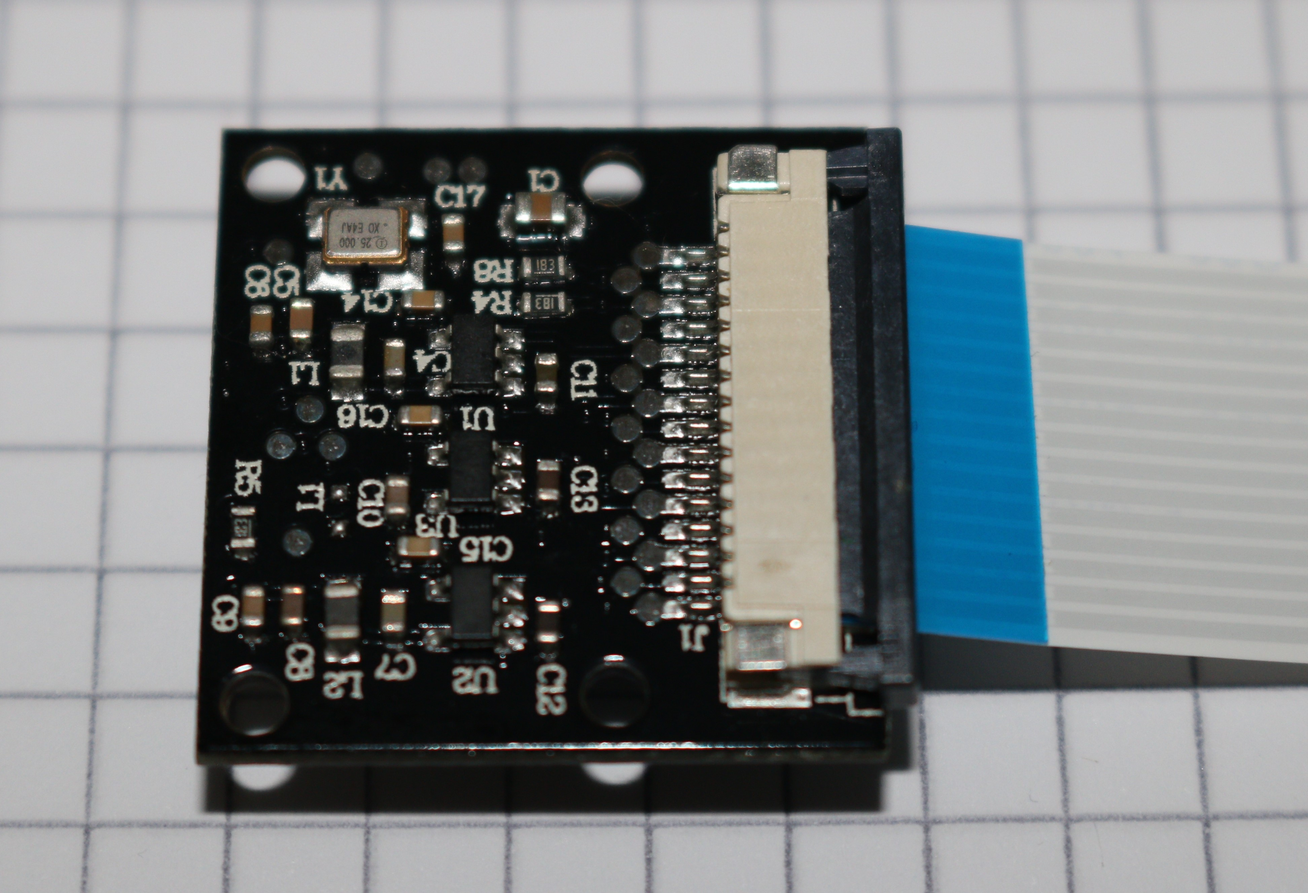
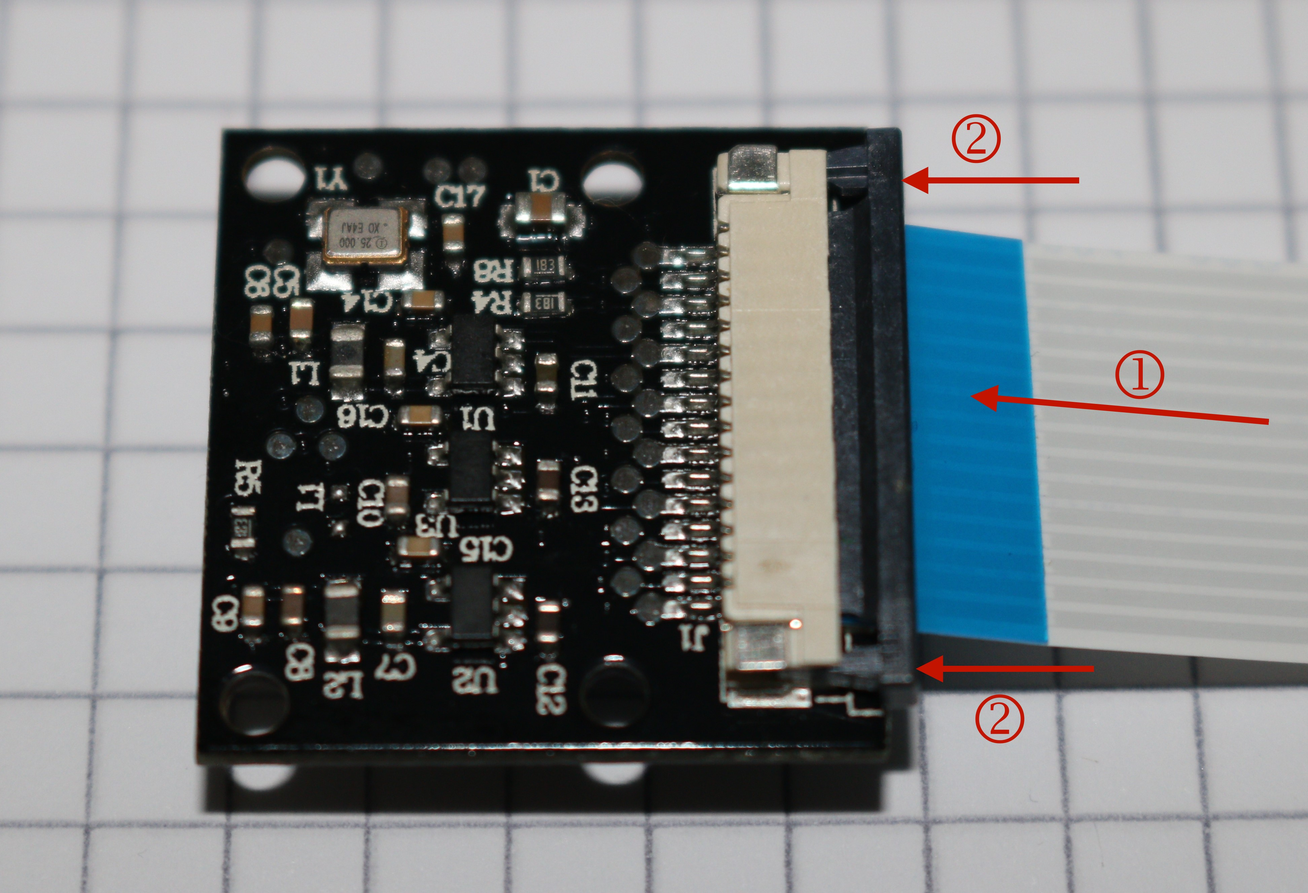
More Updates for the new Software
Added LED Light assembly
Removed typos, updated Software and Hardware chapter

diff --git a/docs/software.md b/docs/software.md
@@ -148,6 +148,12 @@ sudo apt-get update && apt-get dist-upgrade
 
 # Config File Values
 
+
+
+***CHECK THE TEXT OF THE VALUES - MAYBE SOMETHING IS MISSING
+
+
+
 A configuration file can be found in /etc/fabscanpi/default.config.json. The content of this file 
 is in JSON format and can be edited with an editor of your choice (e.g. nano). Be careful and don't
 miss brackets. JSON is really sensitive in it's format.
@@ -187,25 +193,37 @@ This section describes the laser stepper motor values. The rotation_steps value 
 
 In this section you can change the parameters of the configuration sheet. If your printout of the calibration sheet has not the exact scale you can adjust the parameters here instead of scaling the print. 
 
+
+
+"scanner_type": "laserscanner",
+"calibration": {
+
+```
+"weight_matrix": [],
+"dist_camera_matrix": [],
+"pattern": {
+    "square_size": 10,
+    "rows": 6,
+    "columns": 9,
+    "origin_distance": 29
+}
+```
+
+
 - Square Size is the side length of one black square in millimeters.
-- Rows and Columns are the connection points of the black squares.
 
-    ```
-    "scanner_type": "laserscanner",
-    "calibration": {
-        "weight_matrix": [],
-        "dist_camera_matrix": [],
-        "pattern": {
-            "square_size": 10,
-            "rows": 6,
-            "columns": 9,
-            "origin_distance": 33.5
-        }
-     ```
+  ![PuTTY_Menu](images/calibration_sheet_info_2.png)
 
-![PuTTY_Menu](images/Origin_Distance.jpg)
 
-- Origin Distance is the distance between turntable surface and the upper edge of the black squares in the row close to the turntable.
+
+- Rows and Columns are the connection points of the black squares. The correct number is 9 for columns and 6 for rows :
+
+![PuTTY_Menu](images/calibration_sheet_info_1.png)
+
+
+
+- Origin Distance is the distance between turntable surface and the upper edge of the black squares in the row close to the turntable.![PuTTY_Menu](images/Origin_Distance.jpg)
+
 
 
 
@@ -292,7 +310,7 @@ In this section you can check the calibration parameters. Please make sure you h
 **Table settings**
 
 
-In this section you can change the turntable settings. The radius of the turntable is in millimetres (mm). In the default case the motor is set to 1/16 step mode. A motor with 200 steps per turn can then perform 3200 steps.    
+In this section you can change the turntable settings. The radius of the turntable is in millimeters (mm). In the default case the motor is set to 1/16 step mode. A motor with 200 steps per turn can then perform 3200 steps. Radius is the radius of the turntable in millimeters (mm). 
     "process_numbers": 4,
     "turntable": {
         "steps": 3200,
@@ -354,7 +372,7 @@ In this section you can change the pre-set brightness level of the LED-Ring duri
 
 
 
-# How to Edit the Config File
+# How to Edit the Config File<a name="editConfigFile"></a>
 
 **Remote access to change the configuration settings**
 
@@ -559,6 +577,10 @@ sudo /etc/init.d/networking restart
 
 FabScan Pi is tested on: 
 
+*** PLEASE UPDATE THE VERSION NUMBERS OF THE TESTED OSX BROWSERS
+
+
+
 |                   Logo                   |      OS      |        Versions        |
 | :--------------------------------------: | :----------: | :--------------------: |
 | ![browser_logo](images/chrome-logo.png)  | OSX, Windows | 47.0.2526.106 (64-bit) |
@@ -586,7 +608,13 @@ FabScan Pi is tested on:
 
 Before you can start with your first scans you must perform an calibration. That is necessary because every Scanner housing is a bit different.  By calibrating your scanner the software will get the exact parameters of your FabScanPi. Only after finishing the calibration successfully you will have good scan results .
 
-The calibration will be done by scanning an calibration sheet with a specific pattern which must be placed on the turntable:
+The calibration will be done by scanning an calibration sheet with a specific pattern which must be placed on the turntable. The pattern must face the camera:
+
+
+
+***PICTURE OF CALIBRATION SHEET IN START POSITION
+
+
 
 Option 1: You can decide between the standard calibration sheet which must be glued onto a paperboard sheet. The standard sheet can be put up without an additional holder. You maybe have to fix the calibration sheet on the turntable by using some adhesive tape.
 
@@ -594,19 +622,17 @@ Option 2: You have an 3D-printer available and can print out our calibration she
 
 
 
+***LINK TO THE CALIBRATION SHEET DOWNLOAD
+
+
+
 Note: Please check if your print of the calibration sheet has the correct scale. Each black square should have the side length of 10 mm (1 cm). If the size is not correct please correct the parameter "pattern square size" in the configuration file. 
 
-You can find all details in the chapter "How to Edit the Config File".
+You can find all details in the chapter "[How to Edit the Config File](#editConfigFile)".
 
 
 
-
-
-
-
-
-
-You can start the calibration procedure by clicking on the gun sight icon in the very upper left corner.
+Start the calibration procedure by clicking on the gun sight icon in the very upper left corner.
 
 ![main_menu](images/Manual_1.jpg)
 

diff --git a/docs/hardware.md b/docs/hardware.md
@@ -37,7 +37,7 @@ flashed automatically by the FabscanPi-Server application.
 ![drawing_400](images/fabscanpihat.png)
 
 <<<<<<< HEAD
-# How to Asselmble the FabScanPi HAT
+# How to assemble the FabScanPi HAT
 
 **Materials & Tools**
 
@@ -53,16 +53,16 @@ flashed automatically by the FabscanPi-Server application.
 
 ![drawing_400](images/RPi-FabScan-HAT07.jpg)
 
-Use the side cutter to cut two pieces of 3 pins from the male header, like you on the picture above.
+Use the side cutter to cut two pieces of 3 pins from the male header, like you can see on the picture above.
 
 #Connecting the Stepper Motor
 =======
-**How to Assemble the FabScanPi HAT**
+**How to assemble the FabScanPi HAT**
 
 
 * * *
-<i class="fa fa-info-circle spacer" aria-hidden="true"></i> _About Soldering_
- 
+    <i class="fa fa-info-circle spacer" aria-hidden="true"></i> _About soldering_
+
 _If you are soldering for the very fist time, we suggest to read the comic ["Soldering is Easy"](https://mightyohm.com/files/soldercomic/FullSolderComic_EN.pdf) by Mitch Altman (soldering wisdom), Andie Nordgren (comic adaption) and Jeff Keyzer (layout and editing)._
 * * *
 
@@ -151,8 +151,7 @@ Now the 2x20-pin socket connector must be installed from the rear side of the PC
 
 ![drawing_400](images\hat_assembly_7.jpg)
 
-_Attention: The power connector in this image is soldered in an alternative way. The recommended way 
-is shown in the image before._
+**ATTENTION:** The power connector in the image above image is soldered in an alternative way. The recommended way is shown in the second last image.
 
 
 
@@ -171,11 +170,11 @@ If you are using another power supply which is capable of delivering 12V and 5V 
 #Connecting the Stepper Motor(s)
 
 >>>>>>> master
-There are different kinds of stepper motos. Mostly with 4 or 6 leads. For
-connecting the stepper motor to the FabScanPi HAT you need to know the
-corresponding lead pairs of the motor coils. The best way to find out something
-about the motor is to have a look at the datasheet of the motor manufacturer.
-In the following desciptions the pairs are called (2B, 1B) and (1A, 2A).
+>>>>>>> There are different kinds of stepper motos. Mostly with 4 or 6 leads. For
+>>>>>>> connecting the stepper motor to the FabScanPi HAT you need to know the
+>>>>>>> corresponding lead pairs of the motor coils. The best way to find out something
+>>>>>>> about the motor is to have a look at the datasheet of the motor manufacturer.
+>>>>>>> In the following desciptions the pairs are called (2B, 1B) and (1A, 2A).
 
 ![drawing_300](images/4wires.jpg) 
 ![drawing_300](images/6wires.jpg)
@@ -283,11 +282,56 @@ NOTE: For the final stage of constuction a more powerful power supply is needed.
 
 
 #Connecting the LED Ring
-TODO
+This small manual will help you to assemble the Camera and LED ring combination. You will need a light if you want to perform texture scans (Check mark is set for Color Scan).
+
+![drawing_400](images/RingLicht_1.jpg)
+
+This is how it should look like if you finished the assembly.
+
+
+
+The Ring-Light will include the  parts you can see in the next picture below (the camera modul is sold separately):
+
+![drawing_400](images/RingLicht_1b.jpg)
+
+IMPORTANT: You will need the standard camera modul (which has a green pcb). The module used in the pictures is the IR version which has the same dimensions but different optical specifications.
+
+
+
+Step 1: Slide one end of the flat ribbon cable into the connector of the camera module (1). Make sure the blue plastic is on the side facing away from the camera. Push the lock bar of the connector gently into the lock position (2).
+
+![drawing_400](images/RingLicht_2.jpg)
+
+
+
+Step 2: Merge the flat ribbon cable through the elongated hole in the LED board.
+
+![drawing_400](images/RingLicht_3.jpg)
+
+
+
+Step 3: Put the four Screws through the holes in the camera board. The heads must be on the side where the lens is situated. Then put a spacer on every screw (as shown in the next picture). 
+
+![drawing_400](images/RingLicht_4.jpg)
+
+
+
+Step 4: Put the Camera modul on the LED board. All four screws must fit the appropriate hole. This can be a bit tricky but it is doable.
+
+![drawing_400](images/RingLicht_5.jpg)
+
+
+
+Step 5: Put a nut on each screw an pull them hand-tight. 
+
+![drawing_400](images/RingLicht_6.jpg)
+
+Now the Camera-LED assembly is ready for installation.
 
 
 
 #Additional Motors for the Lasers
+
 TODO
 
 #Screws and Washers
